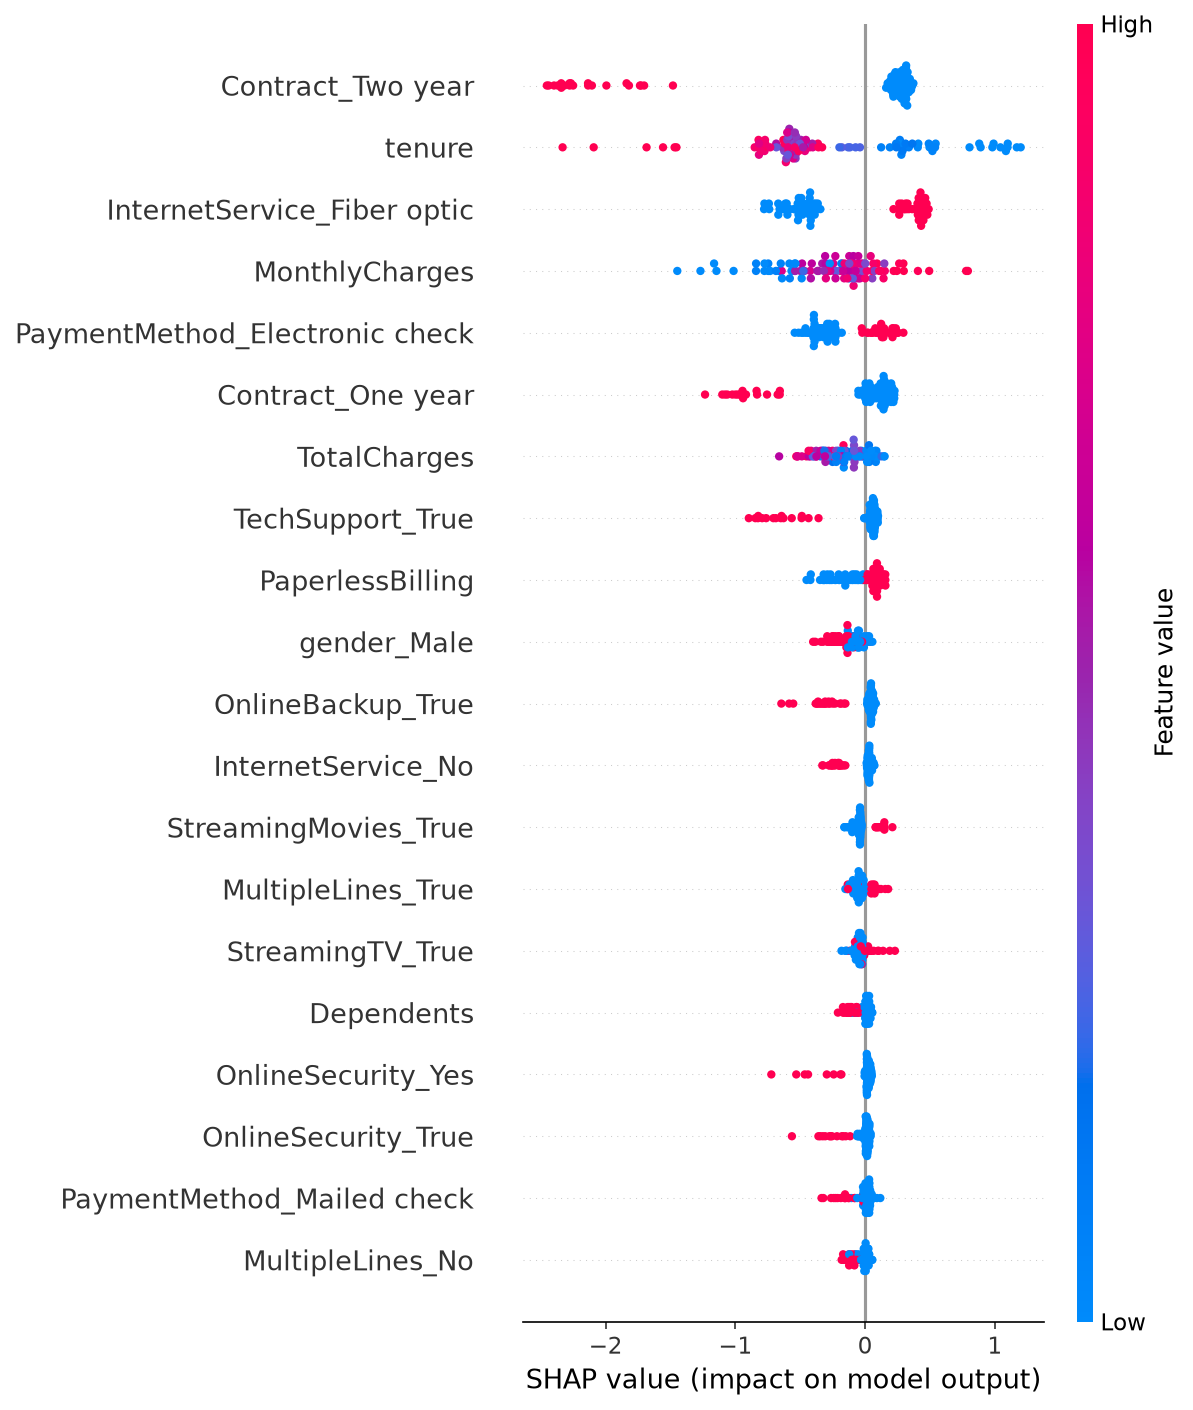
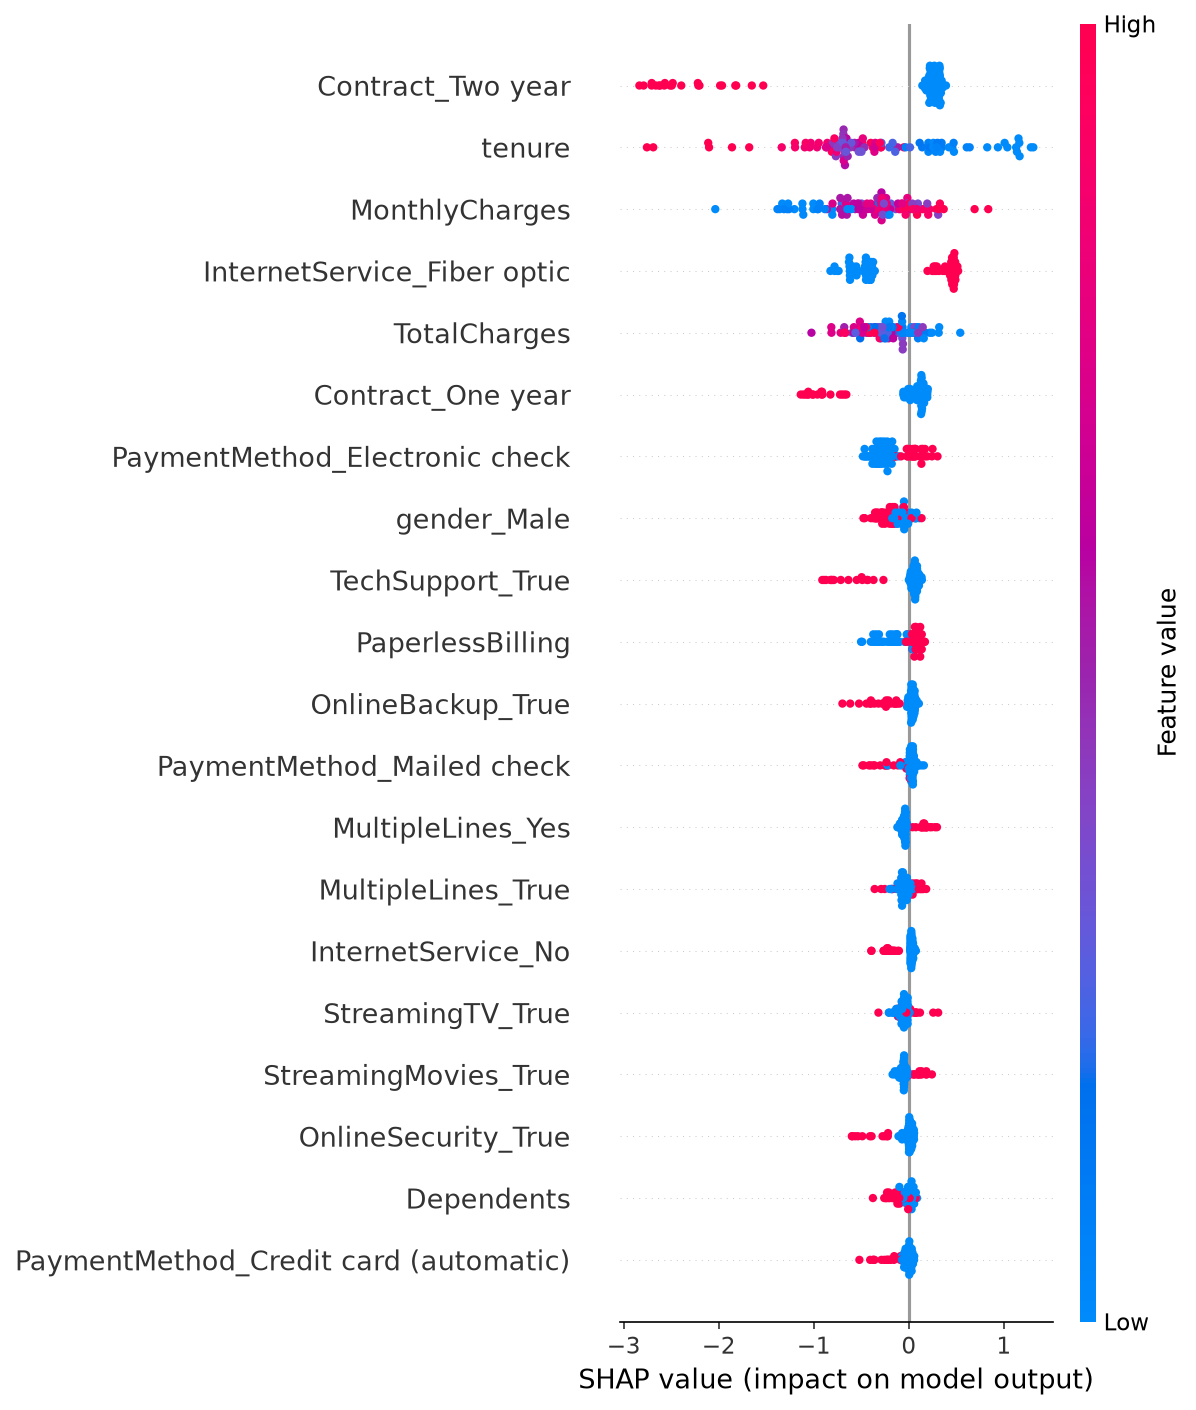
Update model training and prediction pipeline with streamlit configuration and improved deployment setup
Replit-Commit-Author: Agent

diff --git a/src/models/train.py b/src/models/train.py
@@ -36,14 +36,14 @@ def build_preprocessor(cat_cols: list, num_cols: list) -> ColumnTransformer:
 def build_models(random_state: int = 42) -> dict:
     return {
         "Logistic Regression": LogisticRegression(max_iter=2000, random_state=random_state, class_weight="balanced"),
-        "Decision Tree": DecisionTreeClassifier(random_state=random_state, class_weight="balanced", max_depth=10),
-        "Random Forest": RandomForestClassifier(n_estimators=50, random_state=random_state, class_weight="balanced", n_jobs=-1),
-        "XGBoost": xgb.XGBClassifier(n_estimators=50, random_state=random_state, scale_pos_weight=3, eval_metric="logloss"),
-        "LightGBM": lgb.LGBMClassifier(n_estimators=50, random_state=random_state, class_weight="balanced", verbose=-1),
+        "Decision Tree": DecisionTreeClassifier(random_state=random_state, class_weight="balanced", max_depth=8),
+        "Random Forest": RandomForestClassifier(n_estimators=200, random_state=random_state, class_weight="balanced", n_jobs=-1),
+        "XGBoost": xgb.XGBClassifier(n_estimators=200, random_state=random_state, scale_pos_weight=3, eval_metric="logloss", learning_rate=0.05, max_depth=5, subsample=0.8, colsample_bytree=0.8),
+        "LightGBM": lgb.LGBMClassifier(n_estimators=200, random_state=random_state, class_weight="balanced", verbose=-1, num_leaves=31, learning_rate=0.05),
     }
 
 
-def evaluate_model(pipeline, X_train, y_train, X_test, y_test, name: str, cv: int = 2) -> dict:
+def evaluate_model(pipeline, X_train, y_train, X_test, y_test, name: str, cv: int = 5) -> dict:
     logger.info(f"Evaluating {name}...")
     try:
         pipeline.fit(X_train, y_train)
@@ -135,6 +135,19 @@ def tune_best_model(results, trained_models, X_train, y_train, X_test, y_test, c
     else:
         best_idx = np.argmax([r.get("roc_auc", 0) for r in valid])
         best_name = valid[best_idx]["name"]
+    # Prefer tree models (better SHAP + handle non-linearity) when within 0.5% of best AUC
+    PREFERRED = ["XGBoost", "LightGBM", "Random Forest"]
+    best_auc = max(r.get("roc_auc", 0) for r in valid)
+    for name in PREFERRED:
+        for r in valid:
+            if r["name"] == name and r.get("roc_auc", 0) >= best_auc - 0.005:
+                if best_name not in PREFERRED:
+                    logger.info(f"Preferring {name} over {best_name} for tree-model SHAP support (AUC within 0.5%)")
+                    best_name = name
+                break
+        else:
+            continue
+        break
     if best_name == "Voting Ensemble":
         best_name = "XGBoost"
     logger.info(f"Best model: {best_name}. Tuning...")
@@ -144,30 +157,37 @@ def tune_best_model(results, trained_models, X_train, y_train, X_test, y_test, c
     X_test_p = preprocessor.transform(X_test)
     param_grids = {
         "XGBoost": {
-            "n_estimators": [100, 200],
+            "n_estimators": [200, 300, 400],
             "max_depth": [3, 5, 7],
             "learning_rate": [0.01, 0.05, 0.1],
-            "subsample": [0.8, 1.0],
+            "subsample": [0.7, 0.8, 1.0],
+            "colsample_bytree": [0.7, 0.8, 1.0],
+            "min_child_weight": [1, 3, 5],
+            "gamma": [0, 0.1, 0.3],
         },
         "LightGBM": {
-            "n_estimators": [100, 200],
-            "num_leaves": [15, 31, 63],
+            "n_estimators": [200, 300, 400],
+            "num_leaves": [15, 31, 63, 127],
             "learning_rate": [0.01, 0.05, 0.1],
+            "min_child_samples": [10, 20, 30],
+            "subsample": [0.7, 0.8, 1.0],
         },
         "Random Forest": {
-            "n_estimators": [100, 200],
-            "max_depth": [5, 10, 15],
+            "n_estimators": [200, 300],
+            "max_depth": [5, 10, 15, None],
+            "min_samples_split": [2, 5, 10],
+            "min_samples_leaf": [1, 2, 4],
         },
         "Logistic Regression": {
-            "C": [0.1, 1.0, 10.0],
+            "C": [0.01, 0.1, 1.0, 10.0, 100.0],
             "solver": ["liblinear", "lbfgs"],
         },
     }
-    param_grid = param_grids.get(best_name, {"n_estimators": [100, 200]})
+    param_grid = param_grids.get(best_name, {"n_estimators": [200, 300]})
     smote = SMOTE(random_state=42, sampling_strategy=0.8)
     X_train_r, y_train_r = smote.fit_resample(X_train_p, y_train)
-    n_iter = min(3, len(param_grid.get(list(param_grid.keys())[0], [100])))
-    search = RandomizedSearchCV(model, param_grid, n_iter=n_iter, cv=StratifiedKFold(2),
+    n_iter = 20
+    search = RandomizedSearchCV(model, param_grid, n_iter=n_iter, cv=StratifiedKFold(5),
                                 scoring="roc_auc", n_jobs=-1, random_state=42)
     search.fit(X_train_r, y_train_r)
     logger.info(f"Best params for {best_name}: {search.best_params_}")

diff --git a/src/models/predict.py b/src/models/predict.py
@@ -49,12 +49,48 @@ def predict_batch(df: pd.DataFrame) -> pd.DataFrame:
     pipeline, model_name, cat_cols, num_cols = load_model_info()
     if pipeline is None:
         raise FileNotFoundError("Model not found")
-    df = _preprocess_input(df)
-    proba = pipeline.predict_proba(df)[:, 1]
+
+    # Keep original identifiers if present
+    id_col = None
+    if "customerID" in df.columns:
+        id_col = df["customerID"].reset_index(drop=True)
+
+    # Apply full cleaning (handles Yes/No, TotalCharges, etc.) then _preprocess_input
+    try:
+        from src.data.load_data import clean_data
+        # clean_data drops customerID and Churn automatically
+        df_clean = clean_data(df)
+        # Drop Churn column if present (it's the target, not a feature)
+        df_clean = df_clean.drop(columns=["Churn"], errors="ignore")
+    except Exception:
+        df_clean = df.copy()
+        df_clean = df_clean.drop(columns=["customerID", "Churn"], errors="ignore")
+
+    df_clean = _preprocess_input(df_clean)
+
+    # Ensure all expected columns exist
+    expected_cols = (num_cols or []) + (cat_cols or [])
+    missing = [c for c in expected_cols if c not in df_clean.columns]
+    if missing:
+        raise ValueError(
+            f"Uploaded file is missing required columns: {missing}. "
+            f"Please include all customer feature columns."
+        )
+
+    proba = pipeline.predict_proba(df_clean)[:, 1]
     preds = (proba >= 0.5).astype(int)
-    result = df.copy()
-    result["Churn_Probability"] = proba
-    result["Prediction"] = ["Yes" if p == 1 else "No" for p in preds]
+
+    result = df_clean.copy()
+    if id_col is not None:
+        result.insert(0, "customerID", id_col.values)
+    result["Churn_Probability"] = (proba * 100).round(1)
+    result["Prediction"] = ["Churn" if p == 1 else "Stay" for p in preds]
+    result["Risk_Level"] = pd.cut(
+        proba,
+        bins=[0, 0.3, 0.6, 1.0],
+        labels=["Low", "Medium", "High"],
+        include_lowest=True,
+    )
     return result
 
 